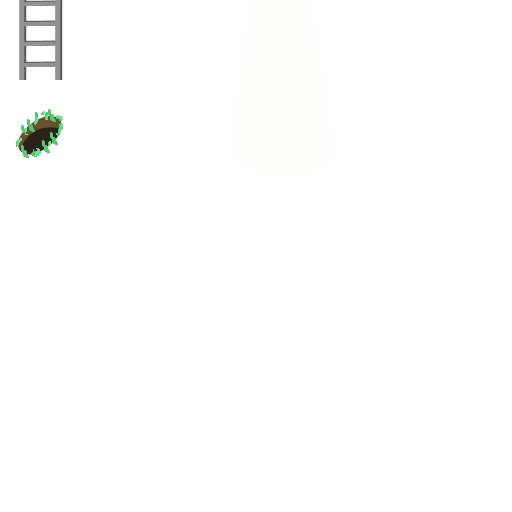
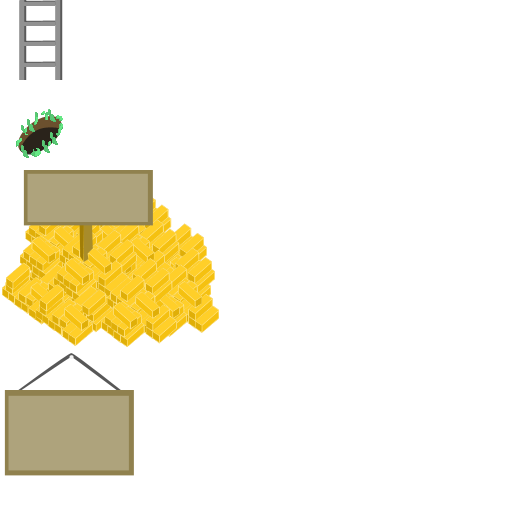
added start

Changed region(s): [[0.0, 0.3125, 0.4375, 0.9375]]

diff --git a/game/prefabs/beginning.js b/game/prefabs/beginning.js
@@ -3,11 +3,31 @@
 var Beginning = function(game, state) {
   Phaser.Group.call(this, game);
 
-  this.freedomGoldText = this.game.add.bitmapText(200, 220, 'minecraftia', state.freedomGold + '.00', 10);
-  this.add(this.freedomGoldText);  
+  this.add(this.game.add.image(0, 300, 'start', 'company_assets'));
+  
+  var txt1 = this.game.add.bitmapText(38, 317, 'minecraftia_white', 'COMPANY', 20);
+  txt1.tint = 0x756632;
+  this.add(txt1);
 
-  this.surplusGoldText = this.game.add.bitmapText(50, 270, 'minecraftia', state.surplusGold + '.00', 10);
+  var txt2 = this.game.add.bitmapText(44, 340, 'minecraftia_white', 'ASSETS', 20);
+  txt2.tint = 0x756632;
+  this.add(txt2);
+
+  this.surplusGoldText = this.game.add.bitmapText(60, 420, 'minecraftia_white', state.surplusGold + '.00', 20);
+  this.surplusGoldText.tint = 0x82780e;
   this.add(this.surplusGoldText);
+
+  ///////////////////////////////////////////
+
+  this.add(this.game.add.image(160, 150, 'start', 'freedom_sight'));
+  
+  var txt3 = this.game.add.bitmapText(180, 205, 'minecraftia_white', 'FREEDOM', 20);
+  txt3.tint = 0x257a15;
+  this.add(txt3);
+
+  this.freedomGoldText = this.game.add.bitmapText(180, 240, 'minecraftia_white', state.freedomGold + '.00', 25);
+  this.freedomGoldText.tint = 0x2fb914;
+  this.add(this.freedomGoldText);
 };
 
 Beginning.prototype = Object.create(Phaser.Group.prototype);

diff --git a/game/prefabs/layers/back.js b/game/prefabs/layers/back.js
@@ -32,10 +32,10 @@ LayerBack.prototype.generateBg = function(){
 };
 
 LayerBack.prototype.createStart = function(){
-  this.add(this.game.add.image(100, this.bgPos, 'start', 'stair'));
-  this.add(this.game.add.image(100, this.bgPos + 80, 'start', 'stair'));
+  this.add(this.game.add.image(30, this.bgPos, 'start', 'stair'));
+  this.add(this.game.add.image(30, this.bgPos + 80, 'start', 'stair'));
 
-  this.add(this.game.add.image(80, this.bgPos, 'start', 'light'));
+  this.add(this.game.add.image(10, this.bgPos, 'start', 'light'));
 };
 
 module.exports = LayerBack;

diff --git a/game/prefabs/layers/game.js b/game/prefabs/layers/game.js
@@ -21,7 +21,7 @@ LayerGame.prototype.generateGrass = function(){
   this.grass.fixedToCamera = true;
   this.add(this.grass);
 
-  this.add(this.game.add.image(100, 40, 'start', 'hole'));
+  this.add(this.game.add.image(30, 40, 'start', 'hole'));
 };
 
 module.exports = LayerGame;
